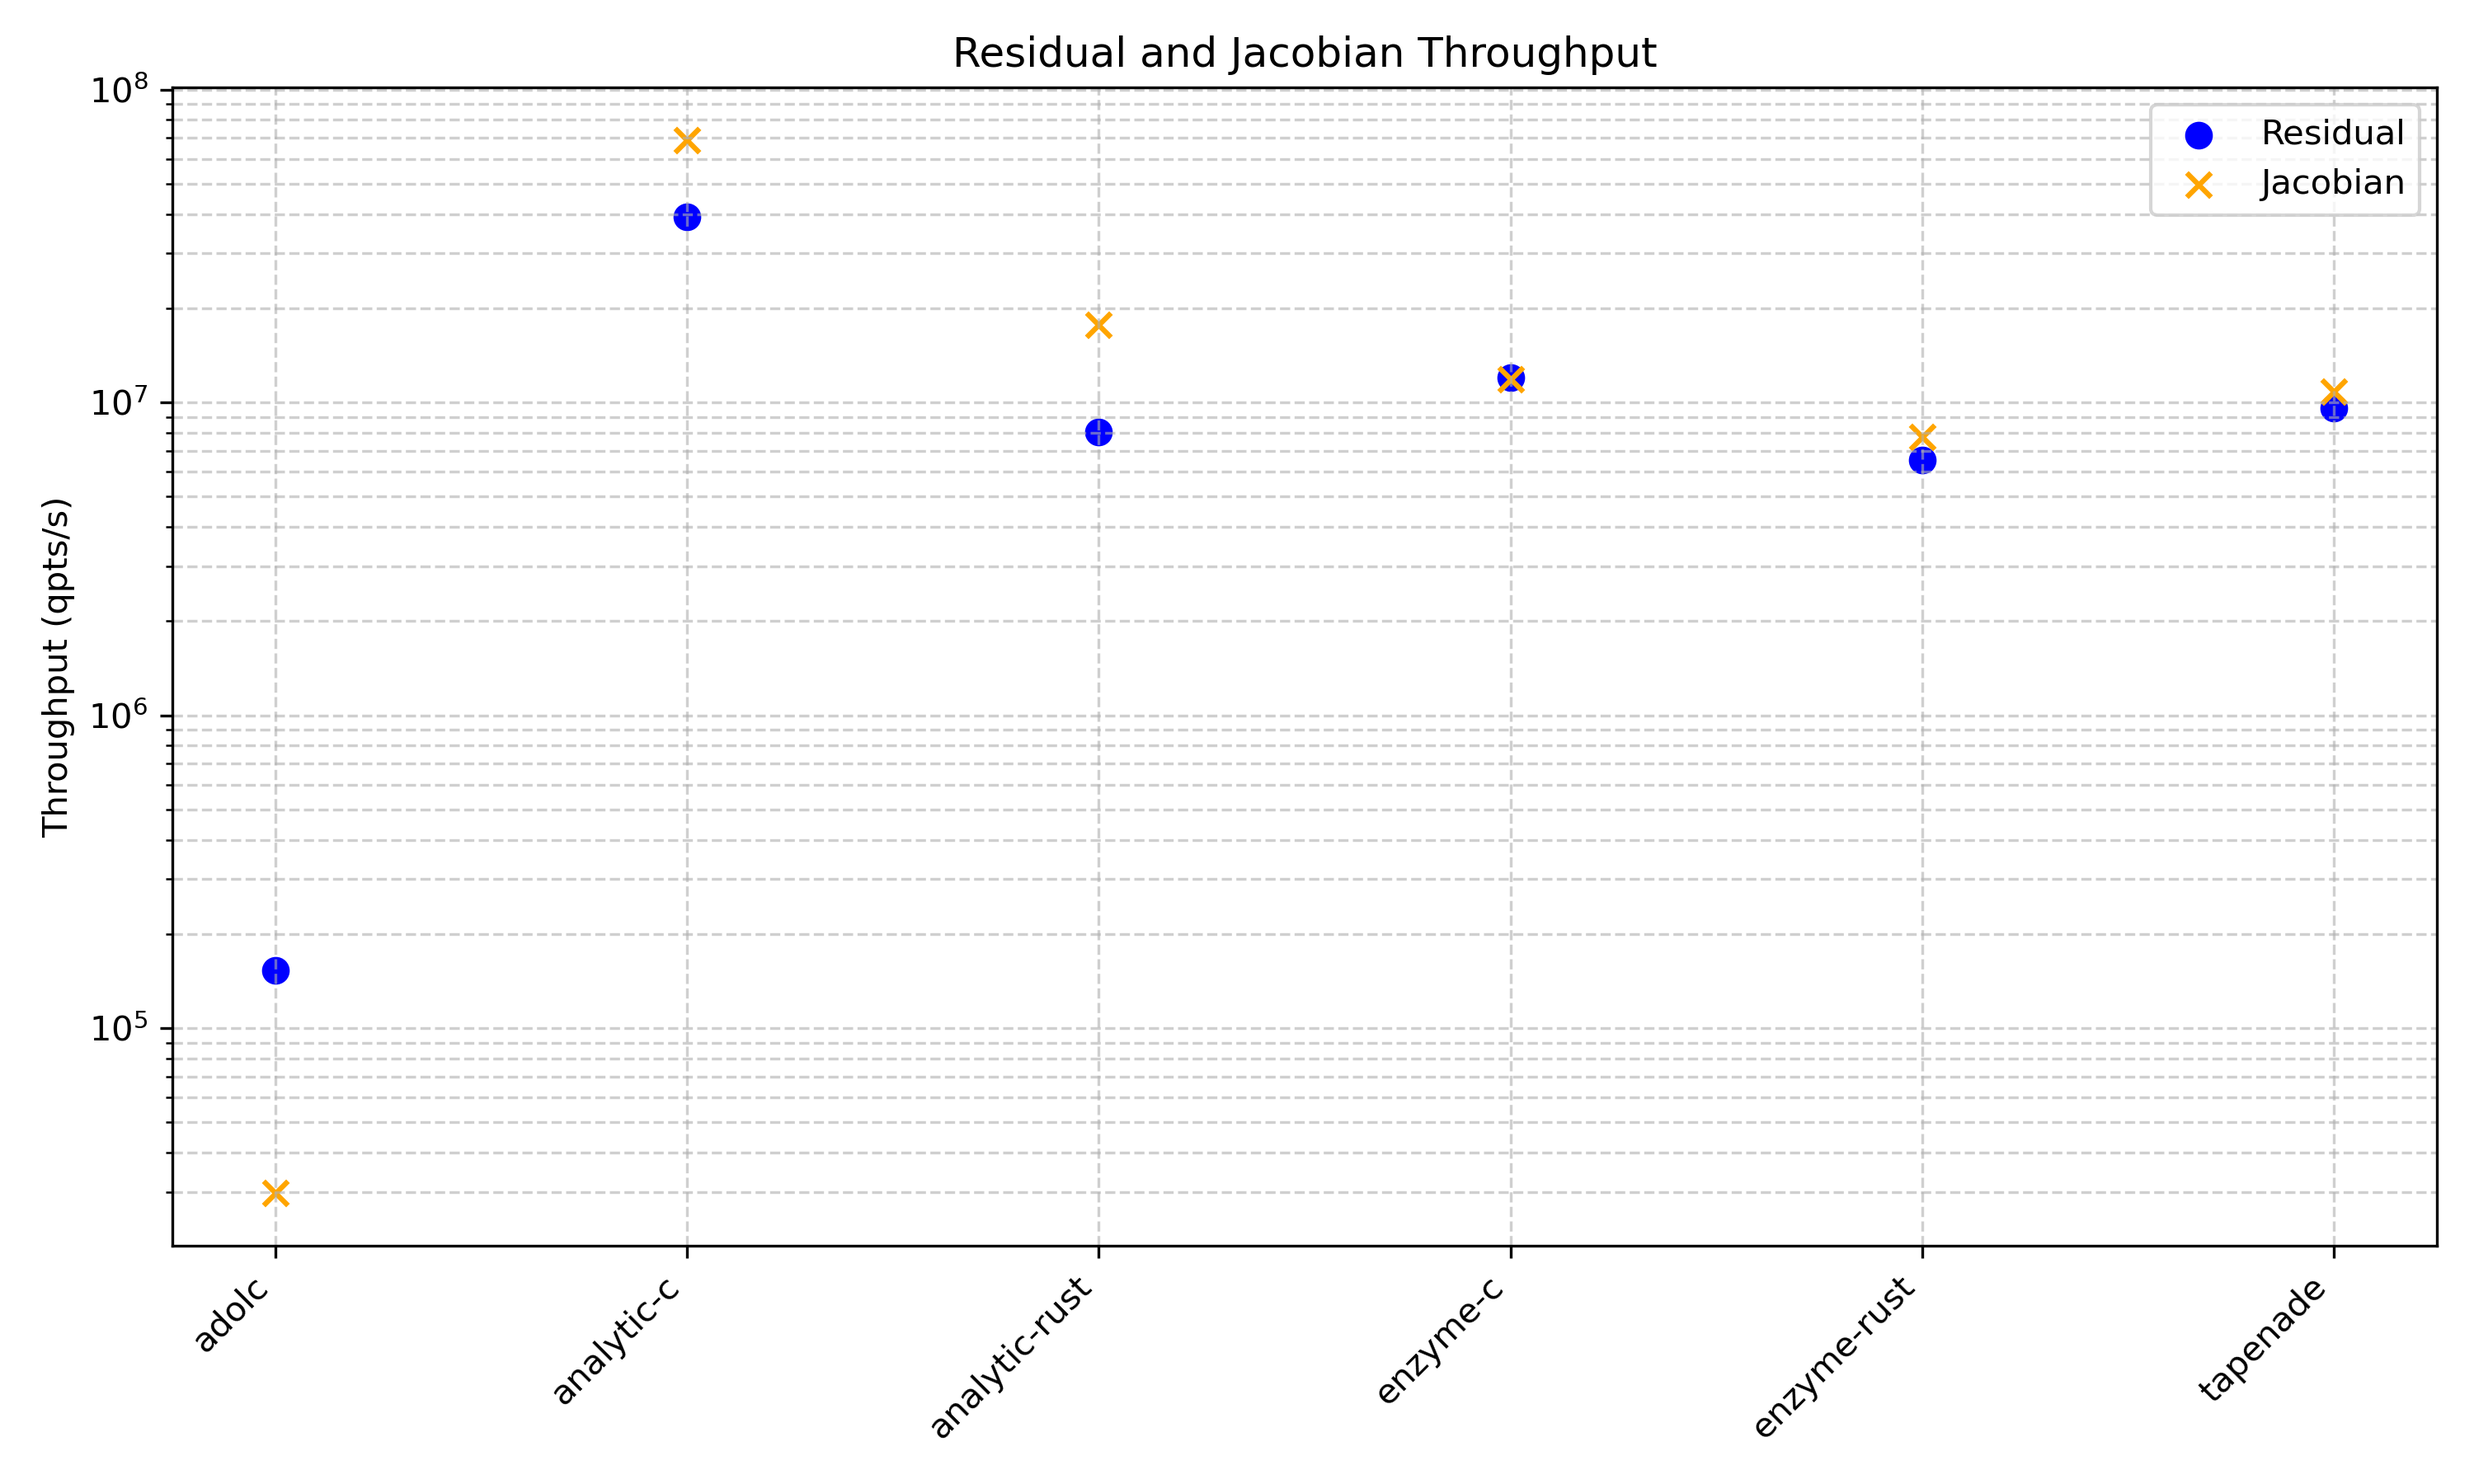
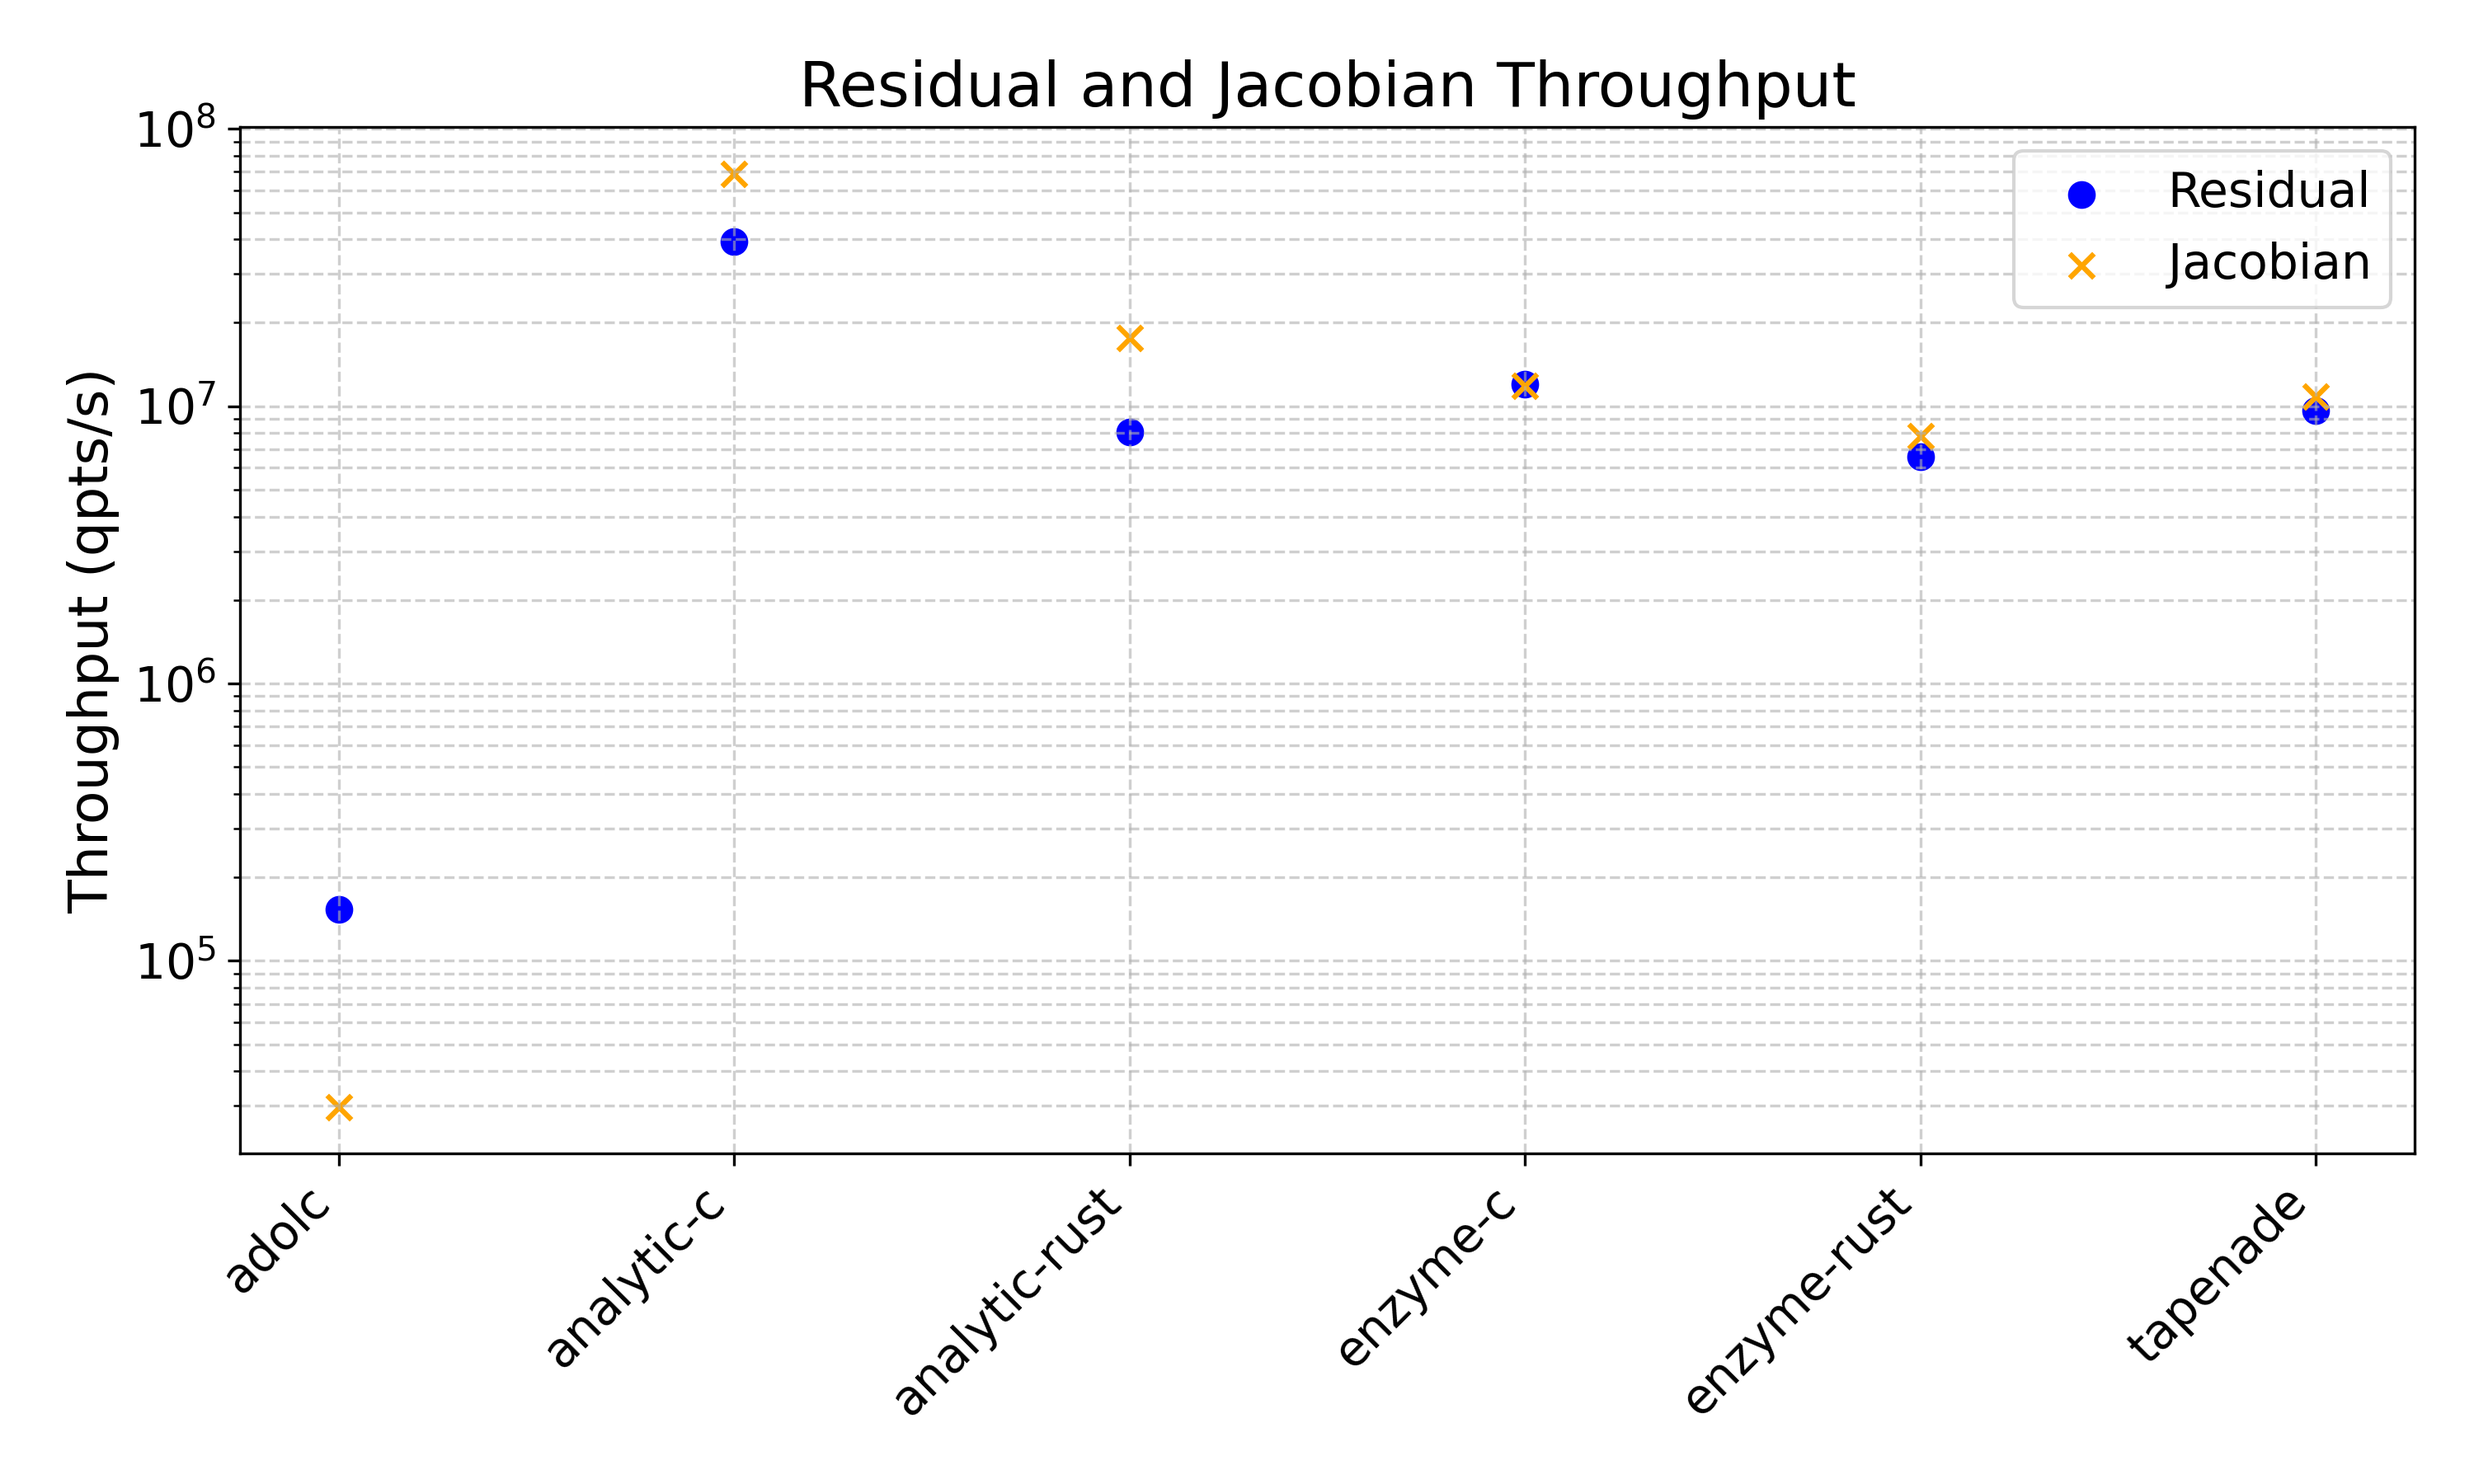
plots-style

diff --git a/runs/plot-bench-ad.py b/runs/plot-bench-ad.py
@@ -7,6 +7,15 @@ import matplotlib.pyplot as plt
 from collections import defaultdict
 import numpy as np
 
+plt.rcParams.update({
+    "font.size": 16,          # Default size
+    "axes.titlesize": 18,     # Plot title
+    "axes.labelsize": 16,     # Axis labels
+    "xtick.labelsize": 14,    # X-axis tick labels
+    "ytick.labelsize": 14,    # Y-axis tick labels
+    "legend.fontsize": 14,    # Legend text
+})
+
 # Residual evaluation:
 #   Load two 3×3 matrices = 2×9×8 = 144 B
 #   Write one 3×3 matrix = 72 B
